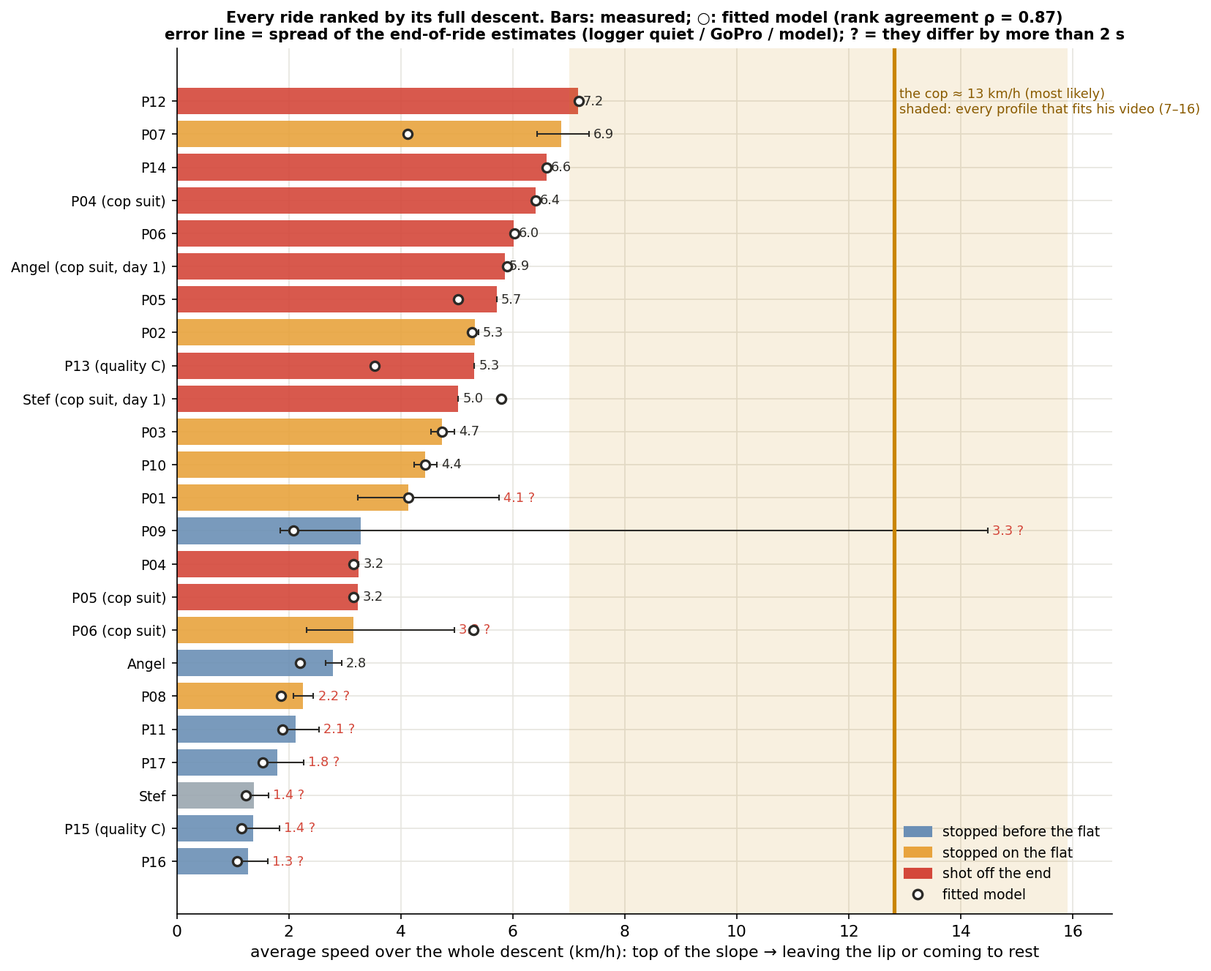
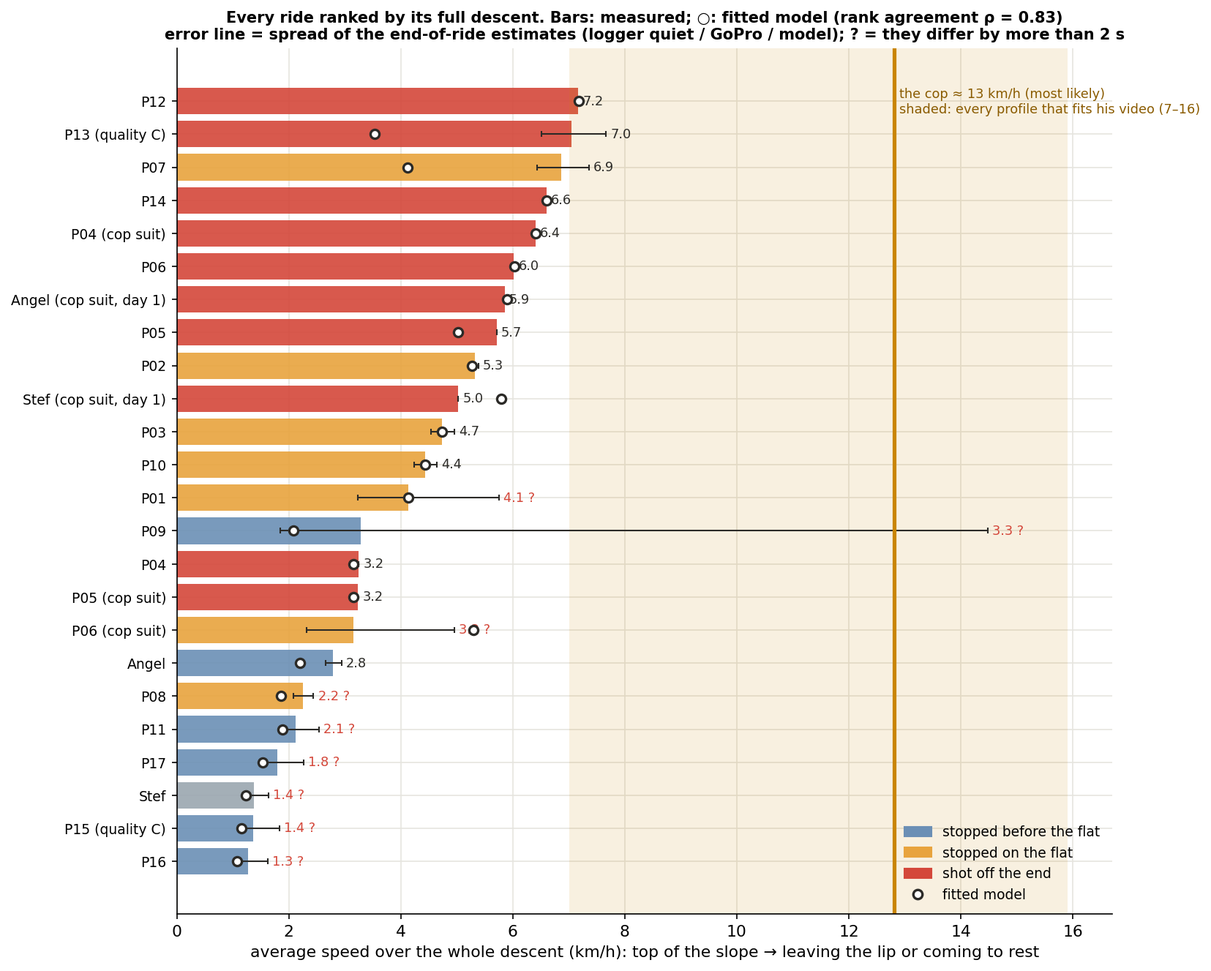
Analysis: rides ranked by overall descent time (P13 timed from the chest-camera picture); Results: findings without thumbnails

Changed region(s): [[0.0616, 0.1236, 0.5239, 0.4017], [0.0616, 0.1854, 0.1541, 0.309]]

diff --git a/results.html b/results.html
@@ -123,26 +123,26 @@
 <main class="res">
   <h2>Main findings</h2>
   <ul class="main">
-    <li><b>The cop was faster than every one of our riders.</b> <span class="sup">20 km/h vs 10–16 km/h on the same filmed stretch (p = 0.004).</span><a class="fr" href="#M1">M1</a><div class="thumbs"><a href="#M1"><img loading="lazy" src="results/s2g_03_cop_same_stretch.png?v=20261019121826" alt="M1"></a></div></li>
-    <li><b>The gap is made in the turns, not on the last straight.</b> <span class="sup">The turn speed decides how a ride ends (p = 0.006). The simulation shows he left the turns at ~13 km/h vs our 6, and that turn friction alone moves the speed out of the tube from 12 to 18 km/h.</span><a class="fr" href="#M2">M2</a><a class="fr" href="#S2">S2</a><a class="fr" href="#L2">L2</a><div class="thumbs"><a href="#M2"><img loading="lazy" src="results/s2g_01_outcome.png?v=20261019121826" alt="M2"></a><a href="#S2"><img loading="lazy" src="results/sim_v2_unmeasurable.png?v=20261019121826" alt="S2"></a><a href="#L2"><img loading="lazy" src="results/sim_l2_turns.png?v=20261019121826" alt="L2"></a></div></li>
-    <li><b>Our riders crawled because they rode on the stall point.</b> <span class="sup">Friction in the turns 0.54–0.62 against a stall at 0.58; the cop's was about 0.15.</span><a class="fr" href="#M3">M3</a><a class="fr" href="#W3">W3</a><div class="thumbs"><a href="#M3"><img loading="lazy" src="results/s2_06_friction_lever.png?v=20261019121826" alt="M3"></a><a href="#W3"><img loading="lazy" src="results/sim_w3_profiles.png?v=20261019121826" alt="W3"></a></div></li>
-    <li><b>To match the cop you must leave the tube at ≥ 18 km/h.</b> <span class="sup">No straight friction or posture fixes a slow exit: posture changes the last straight by < 2 % at equal speed.</span><a class="fr" href="#M4">M4</a><a class="fr" href="#L1">L1</a><a class="fr" href="#L4">L4</a><div class="thumbs"><a href="#M4"><img loading="lazy" src="results/ls_02_what_it_takes.png?v=20261019121826" alt="M4"></a><a href="#L1"><img loading="lazy" src="results/sim_l1_speed.png?v=20261019121826" alt="L1"></a><a href="#L4"><img loading="lazy" src="results/sim_l4_posture.png?v=20261019121826" alt="L4"></a></div></li>
-    <li><b>Lying flat goes with fast rides, but posture alone does not explain the cop.</b> <span class="sup">Measured: lying flat 4.2 vs 2.7 km/h (p = 0.001). Simulated: posture changes the whole-slide time by ±15 % with our friction, ~1 % with his.</span><a class="fr" href="#M5">M5</a><a class="fr" href="#W2">W2</a><div class="thumbs"><a href="#M5"><img loading="lazy" src="results/s2g_05_posture_takeoff.png?v=20261019121826" alt="M5"></a><a href="#W2"><img loading="lazy" src="results/sim_w2_posture.png?v=20261019121826" alt="W2"></a></div></li>
-    <li><b>Pushing harder helps, but not enough.</b> <span class="sup">Measured ρ = 0.46 (p = 0.05); simulated 16 km/h push still slower than the cop.</span><a class="fr" href="#M5">M5</a><a class="fr" href="#W1">W1</a><div class="thumbs"><a href="#M5"><img loading="lazy" src="results/s2g_05_posture_takeoff.png?v=20261019121826" alt="M5"></a><a href="#W1"><img loading="lazy" src="results/sim_w1_push.png?v=20261019121826" alt="W1"></a></div></li>
-    <li><b>Not the suit, not body size.</b> <span class="sup">No clear group differences; the cop suit made nobody faster.</span><a class="fr" href="#M6">M6</a><a class="fr" href="#M7">M7</a><div class="thumbs"><a href="#M6"><img loading="lazy" src="results/s2g_02_groups.png?v=20261019121826" alt="M6"></a><a href="#M7"><img loading="lazy" src="results/s2_02_suit_pairs.png?v=20261019121826" alt="M7"></a></div></li>
-    <li><b>The cop's swing and twist come from speed and a relaxed body.</b> <span class="sup">The simulation reproduces his 82° roll at the tube mouth with no special technique; tone changes the twist, not the time.</span><a class="fr" href="#S2">S2</a><a class="fr" href="#L3">L3</a><div class="thumbs"><a href="#S2"><img loading="lazy" src="results/sim_v2_unmeasurable.png?v=20261019121826" alt="S2"></a><a href="#L3"><img loading="lazy" src="results/sim_l3_tone.png?v=20261019121826" alt="L3"></a></div></li>
-    <li><b>The numbers hold up.</b> <span class="sup">Two sensors agree within 7 %; the simulation matches video it was not fitted to (within 0.1 s at 10.5 m); riders' own ratings rank them correctly.</span><a class="fr" href="#M8">M8</a><a class="fr" href="#S1">S1</a><a class="fr" href="#M9">M9</a><div class="thumbs"><a href="#M8"><img loading="lazy" src="results/s2_05_two_sensors_agree.png?v=20261019121826" alt="M8"></a><a href="#S1"><img loading="lazy" src="results/sim_v1_check.png?v=20261019121826" alt="S1"></a><a href="#M9"><img loading="lazy" src="results/s2g_04_felt_vs_real.png?v=20261019121826" alt="M9"></a></div></li>
+    <li><b>The cop was faster than every one of our riders.</b> <span class="sup">20 km/h vs 10–16 km/h on the same filmed stretch (p = 0.004).</span><a class="fr" href="#M1">M1</a></li>
+    <li><b>The gap is made in the turns, not on the last straight.</b> <span class="sup">The turn speed decides how a ride ends (p = 0.006). The simulation shows he left the turns at ~13 km/h vs our 6, and that turn friction alone moves the speed out of the tube from 12 to 18 km/h.</span><a class="fr" href="#M2">M2</a><a class="fr" href="#S2">S2</a><a class="fr" href="#L2">L2</a></li>
+    <li><b>Our riders crawled because they rode on the stall point.</b> <span class="sup">Friction in the turns 0.54–0.62 against a stall at 0.58; the cop's was about 0.15.</span><a class="fr" href="#M3">M3</a><a class="fr" href="#W3">W3</a></li>
+    <li><b>To match the cop you must leave the tube at ≥ 18 km/h.</b> <span class="sup">No straight friction or posture fixes a slow exit: posture changes the last straight by < 2 % at equal speed.</span><a class="fr" href="#M4">M4</a><a class="fr" href="#L1">L1</a><a class="fr" href="#L4">L4</a></li>
+    <li><b>Lying flat goes with fast rides, but posture alone does not explain the cop.</b> <span class="sup">Measured: lying flat 4.2 vs 2.7 km/h (p = 0.001). Simulated: posture changes the whole-slide time by ±15 % with our friction, ~1 % with his.</span><a class="fr" href="#M5">M5</a><a class="fr" href="#W2">W2</a></li>
+    <li><b>Pushing harder helps, but not enough.</b> <span class="sup">Measured ρ = 0.46 (p = 0.05); simulated 16 km/h push still slower than the cop.</span><a class="fr" href="#M5">M5</a><a class="fr" href="#W1">W1</a></li>
+    <li><b>Not the suit, not body size.</b> <span class="sup">No clear group differences; the cop suit made nobody faster.</span><a class="fr" href="#M6">M6</a><a class="fr" href="#M7">M7</a></li>
+    <li><b>The cop's swing and twist come from speed and a relaxed body.</b> <span class="sup">The simulation reproduces his 82° roll at the tube mouth with no special technique; tone changes the twist, not the time.</span><a class="fr" href="#S2">S2</a><a class="fr" href="#L3">L3</a></li>
+    <li><b>The numbers hold up.</b> <span class="sup">Two sensors agree within 7 %; the simulation matches video it was not fitted to (within 0.1 s at 10.5 m); riders' own ratings rank them correctly.</span><a class="fr" href="#M8">M8</a><a class="fr" href="#S1">S1</a><a class="fr" href="#M9">M9</a></li>
   </ul>
   <p class="notes">Limits: one run per rider per outfit; the cop's numbers rest on two hand-read times from a 15-fps clip;
     posture was seen after the turns. M = measured, S/W/L = simulated (full-body physics, calibrated to the measurements).</p>
   <h2>Measured</h2>
-  <div class="card fig" id="M1"><a href="results/s2g_03_cop_same_stretch.png?v=20261019121826" target="_blank" rel="noopener"><img loading="lazy" src="results/s2g_03_cop_same_stretch.png?v=20261019121826" alt="On the only stretch filmed for both, every rider was slower than the cop"></a><div><span class="fid">M1</span><h3>On the only stretch filmed for both, every rider was slower than the cop</h3><p>Tube mouth → end lip (3.95 m): our fastest riders averaged 10–16 km/h, the cop 20 km/h (all 9 slower, p = 0.004).</p><p class="notes">Times read frame by frame on physical slide features (±0.035–0.07 s).</p></div></div>
-  <div class="card fig" id="M2"><a href="results/s2g_01_outcome.png?v=20261019121826" target="_blank" rel="noopener"><img loading="lazy" src="results/s2g_01_outcome.png?v=20261019121826" alt="How fast you take the turns decides how the ride ends"></a><div><span class="fid">M2</span><h3>How fast you take the turns decides how the ride ends</h3><p>Stopped before the flat: 2.0 ± 0.5 km/h in the turns; stopped on the flat: 3.3 ± 0.7; shot off the end: 4.2 ± 0.7 (p = 0.006). The ones who shot off were also slipperier on the lower straight (friction 0.27 vs 0.48 and 0.59, p < 0.001).</p><p class="notes">Dots = runs, black = mean ± SD. Ending seen on the landing camera.</p></div></div>
-  <div class="card fig" id="M3"><a href="results/s2_06_friction_lever.png?v=20261019121826" target="_blank" rel="noopener"><img loading="lazy" src="results/s2_06_friction_lever.png?v=20261019121826" alt="Everyone rode on the stall point"></a><div><span class="fid">M3</span><h3>Everyone rode on the stall point</h3><p>On a 30° slope, friction 0.58 cancels gravity. Our riders had 0.54–0.62 in the turns, where a small change in friction is a big change in speed.</p><p class="notes">Curves = slide model for two push-off speeds; shaded = our riders.</p></div></div>
-  <div class="card fig" id="M4"><a href="results/ls_02_what_it_takes.png?v=20261019121826" target="_blank" rel="noopener"><img loading="lazy" src="results/ls_02_what_it_takes.png?v=20261019121826" alt="Matching the cop needs speed out of the tube"></a><div><span class="fid">M4</span><h3>Matching the cop needs speed out of the tube</h3><p>Every point on the gold line reproduces the cop's 0.70 s. Our riders all sit to its left: even the slipperiest came out of the tube 3–4 km/h too slowly. The "wannabe cop" (rain suit) is close to the cop.</p><p class="notes">Blue = our 9 riders who shot off, ±1σ (point model fitted to logger + video).</p></div></div>
-  <div class="card fig" id="M5"><a href="results/s2g_05_posture_takeoff.png?v=20261019121826" target="_blank" rel="noopener"><img loading="lazy" src="results/s2g_05_posture_takeoff.png?v=20261019121826" alt="Lying flat went with faster turns; push-off helped a little"></a><div><span class="fid">M5</span><h3>Lying flat went with faster turns; push-off helped a little</h3><p>Lying flat: 4.2 km/h in the turns vs 2.7 sitting up (p = 0.001); 6 of 8 shot off vs 1 of 11 (p = 0.006). Push-off: ρ = 0.46, p = 0.05.</p><p class="notes">Posture coded on the straight, after the turns: slow riders may also sit up because they are slow.</p></div></div>
-  <div class="card fig" id="M6"><a href="results/s2g_02_groups.png?v=20261019121826" target="_blank" rel="noopener"><img loading="lazy" src="results/s2g_02_groups.png?v=20261019121826" alt="Clothes and body size: no clear difference"></a><div><span class="fid">M6</span><h3>Clothes and body size: no clear difference</h3><p>Sex, age, weight, height, estimated contact area and pressure: p = 0.19–0.82. Jeans slower (p = 0.02), only suggestive with 8 comparisons.</p><p class="notes">Bars = mean ± SD, normal-clothes runs only. Group averages only.</p></div></div>
-  <div class="card fig" id="M7"><a href="results/s2_02_suit_pairs.png?v=20261019121826" target="_blank" rel="noopener"><img loading="lazy" src="results/s2_02_suit_pairs.png?v=20261019121826" alt="The cop suit did not make us faster"></a><div><span class="fid">M7</span><h3>The cop suit did not make us faster</h3><p>Of three riders who rode in both, P04 was faster in the suit, P05 slower, P06 the same.</p><p class="notes">One run each; the suit was always the second run.</p></div></div>
+  <div class="card fig" id="M1"><a href="results/s2g_03_cop_same_stretch.png?v=20261019123511" target="_blank" rel="noopener"><img loading="lazy" src="results/s2g_03_cop_same_stretch.png?v=20261019123511" alt="On the only stretch filmed for both, every rider was slower than the cop"></a><div><span class="fid">M1</span><h3>On the only stretch filmed for both, every rider was slower than the cop</h3><p>Tube mouth → end lip (3.95 m): our fastest riders averaged 10–16 km/h, the cop 20 km/h (all 9 slower, p = 0.004).</p><p class="notes">Times read frame by frame on physical slide features (±0.035–0.07 s).</p></div></div>
+  <div class="card fig" id="M2"><a href="results/s2g_01_outcome.png?v=20261019123511" target="_blank" rel="noopener"><img loading="lazy" src="results/s2g_01_outcome.png?v=20261019123511" alt="How fast you take the turns decides how the ride ends"></a><div><span class="fid">M2</span><h3>How fast you take the turns decides how the ride ends</h3><p>Stopped before the flat: 2.0 ± 0.5 km/h in the turns; stopped on the flat: 3.3 ± 0.7; shot off the end: 4.2 ± 0.7 (p = 0.006). The ones who shot off were also slipperier on the lower straight (friction 0.27 vs 0.48 and 0.59, p < 0.001).</p><p class="notes">Dots = runs, black = mean ± SD. Ending seen on the landing camera.</p></div></div>
+  <div class="card fig" id="M3"><a href="results/s2_06_friction_lever.png?v=20261019123511" target="_blank" rel="noopener"><img loading="lazy" src="results/s2_06_friction_lever.png?v=20261019123511" alt="Everyone rode on the stall point"></a><div><span class="fid">M3</span><h3>Everyone rode on the stall point</h3><p>On a 30° slope, friction 0.58 cancels gravity. Our riders had 0.54–0.62 in the turns, where a small change in friction is a big change in speed.</p><p class="notes">Curves = slide model for two push-off speeds; shaded = our riders.</p></div></div>
+  <div class="card fig" id="M4"><a href="results/ls_02_what_it_takes.png?v=20261019123511" target="_blank" rel="noopener"><img loading="lazy" src="results/ls_02_what_it_takes.png?v=20261019123511" alt="Matching the cop needs speed out of the tube"></a><div><span class="fid">M4</span><h3>Matching the cop needs speed out of the tube</h3><p>Every point on the gold line reproduces the cop's 0.70 s. Our riders all sit to its left: even the slipperiest came out of the tube 3–4 km/h too slowly. The "wannabe cop" (rain suit) is close to the cop.</p><p class="notes">Blue = our 9 riders who shot off, ±1σ (point model fitted to logger + video).</p></div></div>
+  <div class="card fig" id="M5"><a href="results/s2g_05_posture_takeoff.png?v=20261019123511" target="_blank" rel="noopener"><img loading="lazy" src="results/s2g_05_posture_takeoff.png?v=20261019123511" alt="Lying flat went with faster turns; push-off helped a little"></a><div><span class="fid">M5</span><h3>Lying flat went with faster turns; push-off helped a little</h3><p>Lying flat: 4.2 km/h in the turns vs 2.7 sitting up (p = 0.001); 6 of 8 shot off vs 1 of 11 (p = 0.006). Push-off: ρ = 0.46, p = 0.05.</p><p class="notes">Posture coded on the straight, after the turns: slow riders may also sit up because they are slow.</p></div></div>
+  <div class="card fig" id="M6"><a href="results/s2g_02_groups.png?v=20261019123511" target="_blank" rel="noopener"><img loading="lazy" src="results/s2g_02_groups.png?v=20261019123511" alt="Clothes and body size: no clear difference"></a><div><span class="fid">M6</span><h3>Clothes and body size: no clear difference</h3><p>Sex, age, weight, height, estimated contact area and pressure: p = 0.19–0.82. Jeans slower (p = 0.02), only suggestive with 8 comparisons.</p><p class="notes">Bars = mean ± SD, normal-clothes runs only. Group averages only.</p></div></div>
+  <div class="card fig" id="M7"><a href="results/s2_02_suit_pairs.png?v=20261019123511" target="_blank" rel="noopener"><img loading="lazy" src="results/s2_02_suit_pairs.png?v=20261019123511" alt="The cop suit did not make us faster"></a><div><span class="fid">M7</span><h3>The cop suit did not make us faster</h3><p>Of three riders who rode in both, P04 was faster in the suit, P05 slower, P06 the same.</p><p class="notes">One run each; the suit was always the second run.</p></div></div>
 
   <h2>What the simulation adds</h2>
   <p class="notes">The cop was only filmed for his last 4 m, and in our data speed, posture and friction move together. The
@@ -155,23 +155,23 @@
 <tr><td class="l">A harder push wouldn't have been enough</td><td class="l">Only pushes of 0–7.5 km/h observed</td><td class="l">Up to 16 km/h simulated: still slower than the cop (W1)</td></tr>
 <tr><td class="l">His twist is passive</td><td class="l">Seen on video, cause unknown</td><td class="l">Emerges from speed + relaxed body (S2, L3)</td></tr>
 </tbody></table></div>
-  <div class="card fig" id="S1"><a href="results/sim_v1_check.png?v=20261019121826" target="_blank" rel="noopener"><img loading="lazy" src="results/sim_v1_check.png?v=20261019121826" alt="Validation: the simulation reproduces video it was not fitted to"></a><div><span class="fid">S1</span><h3>Validation: the simulation reproduces video it was not fitted to</h3><p>Friction on the straight was fitted only to the 11.05 → 12.4 m time. The earlier video gates are an independent test: at 10.5 m the sim is within 0.03–0.11 s. From 9.5 m it covers the stretch about 0.3 s quicker than the real rider, so it slightly <b>over</b>estimates our riders' speed out of the tube. The real gap to the cop is, if anything, larger.</p><p class="notes">Full-body physics (Rapier), turn friction fitted to each rider's logger turn time, synchronised at 11.05 m. Both riders must leave the lip, as on the video; Stef then fits the window less well (0.26 s RMS vs 0.015 s for Angel).</p></div></div>
-  <div class="card fig" id="S2"><a href="results/sim_v2_unmeasurable.png?v=20261019121826" target="_blank" rel="noopener"><img loading="lazy" src="results/sim_v2_unmeasurable.png?v=20261019121826" alt="What nobody filmed: the cop's turns"></a><div><span class="fid">S2</span><h3>What nobody filmed: the cop's turns</h3><p>His clip starts at the tube mouth. Calibrated to his 0.70 s, the simulation says he left the turns at about 13 km/h (ours 6) and came out of the tube at 18 (ours 10–12). Relaxed, at that speed, his body rolls 82° at the mouth, as on his video; our riders roll under 10°.</p><p class="notes">Cop: one friction for the whole slide (0.15) with a limp body; riders: 0.41 in the turns.</p></div></div>
+  <div class="card fig" id="S1"><a href="results/sim_v1_check.png?v=20261019123511" target="_blank" rel="noopener"><img loading="lazy" src="results/sim_v1_check.png?v=20261019123511" alt="Validation: the simulation reproduces video it was not fitted to"></a><div><span class="fid">S1</span><h3>Validation: the simulation reproduces video it was not fitted to</h3><p>Friction on the straight was fitted only to the 11.05 → 12.4 m time. The earlier video gates are an independent test: at 10.5 m the sim is within 0.03–0.11 s. From 9.5 m it covers the stretch about 0.3 s quicker than the real rider, so it slightly <b>over</b>estimates our riders' speed out of the tube. The real gap to the cop is, if anything, larger.</p><p class="notes">Full-body physics (Rapier), turn friction fitted to each rider's logger turn time, synchronised at 11.05 m. Both riders must leave the lip, as on the video; Stef then fits the window less well (0.26 s RMS vs 0.015 s for Angel).</p></div></div>
+  <div class="card fig" id="S2"><a href="results/sim_v2_unmeasurable.png?v=20261019123511" target="_blank" rel="noopener"><img loading="lazy" src="results/sim_v2_unmeasurable.png?v=20261019123511" alt="What nobody filmed: the cop's turns"></a><div><span class="fid">S2</span><h3>What nobody filmed: the cop's turns</h3><p>His clip starts at the tube mouth. Calibrated to his 0.70 s, the simulation says he left the turns at about 13 km/h (ours 6) and came out of the tube at 18 (ours 10–12). Relaxed, at that speed, his body rolls 82° at the mouth, as on his video; our riders roll under 10°.</p><p class="notes">Cop: one friction for the whole slide (0.15) with a limp body; riders: 0.41 in the turns.</p></div></div>
 
   <h2>Effect of each simulated parameter</h2>
   <p class="notes">One parameter changed at a time, the rest at our riders' values. Try them on the
     <a href="./">Whole-slide</a> and <a href="launch/">Landing</a> simulations.</p>
-  <div class="card fig" id="W1"><a href="results/sim_w1_push.png?v=20261019121826" target="_blank" rel="noopener"><img loading="lazy" src="results/sim_w1_push.png?v=20261019121826" alt="Push-off speed"></a><div><span class="fid">W1</span><h3>Push-off speed</h3><p>Expected: a harder push helps (2 → 16 km/h: 5.9 → 3.2 s for normal clothes), but even 16 km/h with our friction is slower than the cop with a gentle push (2.2–2.9 s).</p><p class="notes">Whole slide, full-body physics.</p></div></div>
-  <div class="card fig" id="W2"><a href="results/sim_w2_posture.png?v=20261019121826" target="_blank" rel="noopener"><img loading="lazy" src="results/sim_w2_posture.png?v=20261019121826" alt="Starting position"></a><div><span class="fid">W2</span><h3>Starting position</h3><p>Expected: ±15 % on the time with our friction (sitting up 4.2 s, cop position 5.7 s); about 2.65 s for every position with the cop's friction. Position mostly changes the twist.</p><p class="notes">Whole slide.</p></div></div>
-  <div class="card fig" id="W3"><a href="results/sim_w3_profiles.png?v=20261019121826" target="_blank" rel="noopener"><img loading="lazy" src="results/sim_w3_profiles.png?v=20261019121826" alt="Clothes (= fitted friction)"></a><div><span class="fid">W3</span><h3>Clothes (= fitted friction)</h3><p>Expected: the curves split in the turns (ours drop to about 5 km/h, the cop keeps 13–15) and never come back together.</p><p class="notes">Whole slide, same push for all.</p></div></div>
-  <div class="card fig" id="L1"><a href="results/sim_l1_speed.png?v=20261019121826" target="_blank" rel="noopener"><img loading="lazy" src="results/sim_l1_speed.png?v=20261019121826" alt="Speed out of the tube"></a><div><span class="fid">L1</span><h3>Speed out of the tube</h3><p>Expected: the last straight depends mostly on entry speed; ~18 km/h or more is needed for 0.70 s.</p><p class="notes">Last straight only.</p></div></div>
-  <div class="card fig" id="L2"><a href="results/sim_l2_turns.png?v=20261019121826" target="_blank" rel="noopener"><img loading="lazy" src="results/sim_l2_turns.png?v=20261019121826" alt="Friction in the turns"></a><div><span class="fid">L2</span><h3>Friction in the turns</h3><p>Expected: 0.41 → 0.15 raises the speed out of the tube from 12.5 to 18 km/h and cuts the last straight from 0.98 to 0.76 s.</p><p class="notes">Straight friction kept at our riders' 0.21.</p></div></div>
-  <div class="card fig" id="L3"><a href="results/sim_l3_tone.png?v=20261019121826" target="_blank" rel="noopener"><img loading="lazy" src="results/sim_l3_tone.png?v=20261019121826" alt="Muscle tone"></a><div><span class="fid">L3</span><h3>Muscle tone</h3><p>Expected: a limp body twists ~60° at the mouth, a stiffer one 18–44°; the time barely changes (0.68–0.71 s).</p><p class="notes">The cop's run.</p></div></div>
-  <div class="card fig" id="L4"><a href="results/sim_l4_posture.png?v=20261019121826" target="_blank" rel="noopener"><img loading="lazy" src="results/sim_l4_posture.png?v=20261019121826" alt="Body position on the last straight"></a><div><span class="fid">L4</span><h3>Body position on the last straight</h3><p>Expected: at 18 km/h out of the tube all positions take 0.67–0.68 s.</p><p class="notes">Last straight only.</p></div></div>
+  <div class="card fig" id="W1"><a href="results/sim_w1_push.png?v=20261019123511" target="_blank" rel="noopener"><img loading="lazy" src="results/sim_w1_push.png?v=20261019123511" alt="Push-off speed"></a><div><span class="fid">W1</span><h3>Push-off speed</h3><p>Expected: a harder push helps (2 → 16 km/h: 5.9 → 3.2 s for normal clothes), but even 16 km/h with our friction is slower than the cop with a gentle push (2.2–2.9 s).</p><p class="notes">Whole slide, full-body physics.</p></div></div>
+  <div class="card fig" id="W2"><a href="results/sim_w2_posture.png?v=20261019123511" target="_blank" rel="noopener"><img loading="lazy" src="results/sim_w2_posture.png?v=20261019123511" alt="Starting position"></a><div><span class="fid">W2</span><h3>Starting position</h3><p>Expected: ±15 % on the time with our friction (sitting up 4.2 s, cop position 5.7 s); about 2.65 s for every position with the cop's friction. Position mostly changes the twist.</p><p class="notes">Whole slide.</p></div></div>
+  <div class="card fig" id="W3"><a href="results/sim_w3_profiles.png?v=20261019123511" target="_blank" rel="noopener"><img loading="lazy" src="results/sim_w3_profiles.png?v=20261019123511" alt="Clothes (= fitted friction)"></a><div><span class="fid">W3</span><h3>Clothes (= fitted friction)</h3><p>Expected: the curves split in the turns (ours drop to about 5 km/h, the cop keeps 13–15) and never come back together.</p><p class="notes">Whole slide, same push for all.</p></div></div>
+  <div class="card fig" id="L1"><a href="results/sim_l1_speed.png?v=20261019123511" target="_blank" rel="noopener"><img loading="lazy" src="results/sim_l1_speed.png?v=20261019123511" alt="Speed out of the tube"></a><div><span class="fid">L1</span><h3>Speed out of the tube</h3><p>Expected: the last straight depends mostly on entry speed; ~18 km/h or more is needed for 0.70 s.</p><p class="notes">Last straight only.</p></div></div>
+  <div class="card fig" id="L2"><a href="results/sim_l2_turns.png?v=20261019123511" target="_blank" rel="noopener"><img loading="lazy" src="results/sim_l2_turns.png?v=20261019123511" alt="Friction in the turns"></a><div><span class="fid">L2</span><h3>Friction in the turns</h3><p>Expected: 0.41 → 0.15 raises the speed out of the tube from 12.5 to 18 km/h and cuts the last straight from 0.98 to 0.76 s.</p><p class="notes">Straight friction kept at our riders' 0.21.</p></div></div>
+  <div class="card fig" id="L3"><a href="results/sim_l3_tone.png?v=20261019123511" target="_blank" rel="noopener"><img loading="lazy" src="results/sim_l3_tone.png?v=20261019123511" alt="Muscle tone"></a><div><span class="fid">L3</span><h3>Muscle tone</h3><p>Expected: a limp body twists ~60° at the mouth, a stiffer one 18–44°; the time barely changes (0.68–0.71 s).</p><p class="notes">The cop's run.</p></div></div>
+  <div class="card fig" id="L4"><a href="results/sim_l4_posture.png?v=20261019123511" target="_blank" rel="noopener"><img loading="lazy" src="results/sim_l4_posture.png?v=20261019123511" alt="Body position on the last straight"></a><div><span class="fid">L4</span><h3>Body position on the last straight</h3><p>Expected: at 18 km/h out of the tube all positions take 0.67–0.68 s.</p><p class="notes">Last straight only.</p></div></div>
 
   <h2>How much to trust the numbers</h2>
-  <div class="card fig" id="M8"><a href="results/s2_05_two_sensors_agree.png?v=20261019121826" target="_blank" rel="noopener"><img loading="lazy" src="results/s2_05_two_sensors_agree.png?v=20261019121826" alt="Two independent sensors give the same turn speeds"></a><div><span class="fid">M8</span><h3>Two independent sensors give the same turn speeds</h3><p>Waist logger vs chest GoPro gyro: within 7 % (median). Rider-to-rider differences (±50 %) are real.</p><p class="notes">On the line = perfect agreement; shaded = ±10 %.</p></div></div>
-  <div class="card fig" id="M9"><a href="results/s2g_04_felt_vs_real.png?v=20261019121826" target="_blank" rel="noopener"><img loading="lazy" src="results/s2g_04_felt_vs_real.png?v=20261019121826" alt="Riders knew how fast they were"></a><div><span class="fid">M9</span><h3>Riders knew how fast they were</h3><p>Their own rating matched the measured speed within a few points (p = 0.15) and ranked everyone right (ρ = 0.78, p < 0.001).</p><p class="notes">Left: only the 8 riders filmed on the same stretch as the cop.</p></div></div>
+  <div class="card fig" id="M8"><a href="results/s2_05_two_sensors_agree.png?v=20261019123511" target="_blank" rel="noopener"><img loading="lazy" src="results/s2_05_two_sensors_agree.png?v=20261019123511" alt="Two independent sensors give the same turn speeds"></a><div><span class="fid">M8</span><h3>Two independent sensors give the same turn speeds</h3><p>Waist logger vs chest GoPro gyro: within 7 % (median). Rider-to-rider differences (±50 %) are real.</p><p class="notes">On the line = perfect agreement; shaded = ±10 %.</p></div></div>
+  <div class="card fig" id="M9"><a href="results/s2g_04_felt_vs_real.png?v=20261019123511" target="_blank" rel="noopener"><img loading="lazy" src="results/s2g_04_felt_vs_real.png?v=20261019123511" alt="Riders knew how fast they were"></a><div><span class="fid">M9</span><h3>Riders knew how fast they were</h3><p>Their own rating matched the measured speed within a few points (p = 0.15) and ranked everyone right (ρ = 0.78, p < 0.001).</p><p class="notes">Left: only the 8 riders filmed on the same stretch as the cop.</p></div></div>
 
   <div class="card"><h3>Reading the statistics</h3><ul class="main" style="font-size:14px">
     <li><b>p-value</b>: how likely a difference this big would be by pure chance if there were really no difference.

diff --git a/data.html b/data.html
@@ -121,21 +121,21 @@
   <p class="lede">Pick a ride to see everything we measured on it: the logger's turn timing, the landing camera and the fits.
     The main findings and group statistics are on <a href="results.html">Results</a>.</p>
   <div class="card">
-    <h3>Every ride: speed through the turns (km/h) — click one</h3>
+    <h3>Every ride ranked by its overall descent time — click one</h3>
     <div class="legend" id="legB"></div>
     <div id="bars"></div>
   </div>
   <div id="runView"></div>
   <h2>All rides at a glance</h2>
   <div class="card"><h3>Every ride ranked by its full descent</h3>
-    <a href="results/an_1_descent_ranking.png?v=20261019121817" target="_blank"><img class="fig" src="results/an_1_descent_ranking.png?v=20261019121817" alt="ranking" loading="lazy"></a>
+    <a href="results/an_1_descent_ranking.png?v=20261019123554" target="_blank"><img class="fig" src="results/an_1_descent_ranking.png?v=20261019123554" alt="ranking" loading="lazy"></a>
     <p class="notes">Average speed from the top of the slope (logger departure) until the rider left the lip or came to rest.
       Leaving the lip: model fitted to the landing video's tube mouth → lip time. Coming to rest: the median of three independent
       estimates (logger goes quiet, GoPro picture goes still, model), with their spread as the error line; "?" = they differ by
       more than 2 s, typically slow riders who crept to a stop. ○ = the model fitted to that ride. The cop's full descent was never
       filmed: his line comes from the speed profiles that reproduce his measured 0.70 s on the last stretch.</p></div>
   <div class="card"><h3>The two best-measured stretches, ranked separately</h3>
-    <a href="results/an_3_two_stretches.png?v=20261019121817" target="_blank"><img class="fig" src="results/an_3_two_stretches.png?v=20261019121817" alt="two stretches" loading="lazy"></a>
+    <a href="results/an_3_two_stretches.png?v=20261019123554" target="_blank"><img class="fig" src="results/an_3_two_stretches.png?v=20261019123554" alt="two stretches" loading="lazy"></a>
     <p class="notes">The full-descent ranking mixes a well-measured part (the turns) with a weak one (when a slow ride really
       ended). Here each stretch is ranked on its own, over the same distance for everyone. Left: the time through the turns,
       from the gyro, with both ends measured (no launch time needed: it can't be pinned from the logger alone). Right: the landing video's tube mouth → lip time, which only riders who reached the lip
@@ -148,7 +148,7 @@
       about ±0.3–0.5 s. A sync cue that every camera and the logger record (the GO beep next to the landing camera, a clap or a
       flash) would make the whole descent measurable end to end next time.</p></div>
   <div class="card"><h3>Model vs measurement, stretch by stretch</h3>
-    <a href="results/an_2_model_vs_measured.png?v=20261019121817" target="_blank"><img class="fig" src="results/an_2_model_vs_measured.png?v=20261019121817" alt="model vs measured" loading="lazy" style="max-width:640px"></a>
+    <a href="results/an_2_model_vs_measured.png?v=20261019123554" target="_blank"><img class="fig" src="results/an_2_model_vs_measured.png?v=20261019123554" alt="model vs measured" loading="lazy" style="max-width:640px"></a>
     <p class="notes">Each dot is one ride on one stretch: measured average speed (turn timing from the logger, lower straight from
       logger + landing camera, tube mouth → lip from the landing video) against the fitted model on the same stretch. The model
       has three free numbers per ride (push, turn friction, lower friction), so a close match on four stretches is a real check.
@@ -169,7 +169,7 @@ const $ = id => document.getElementById(id);
 const css = v => getComputedStyle(document.documentElement).getPropertyValue(v).trim();
 const fmt = (v, d = 1) => (v == null || Number.isNaN(v)) ? "—" : (+v).toFixed(d);
 const tip = $("tip");
-const V = "20261019121817";
+const V = "20261019123554";
 /* ------------------------------------------------------------------ chart */
 function niceTicks(lo, hi, n = 5) {
   const span = hi - lo || 1, step0 = span / n, mag = Math.pow(10, Math.floor(Math.log10(step0)));
@@ -305,16 +305,17 @@ const tile = (tl, tv, tu, tn) => `<div class="tile"><div class="tl">${tl}</div><
 
 /* picker: every run as a bar (speed through the turns), dot = how it ended */
 function bars() {
-  const rs = R.slice().sort((a, b) => (vt(b) ?? 0) - (vt(a) ?? 0)), vmax = 6.5;
+  // ranked by overall descent time: top of the slope -> leaving the lip / coming to rest (fastest first)
+  const T = r => (ex(r).desc || {}).t, rs = R.filter(r => T(r) > 0).sort((a, b) => T(a) - T(b)), tmax = Math.max(...rs.map(T));
   $("bars").innerHTML = rs.map(r => {
-    const w = (vt(r) ?? 0) * KMH / vmax * 100, c = col(r), L = OUT[outc(r)];
-    const bar = r.quality === "C" ? `border:2px dashed ${c}` : `background:${c};opacity:${r.quality === "B" ? 0.55 : 1}`;
-    return `<div class="frow${SEL && SEL.run_id === r.run_id ? " sel" : ""}" data-id="${r.run_id}" style="cursor:pointer"><span class="fl">${nm(r)}${L ? ` <i class="dotk" style="background:${L[1]}" title="${L[0]}"></i>` : ""}</span>` +
-      `<span class="fb"><i style="width:${w.toFixed(1)}%;${bar}"></i></span><b>${fmt((vt(r) ?? NaN) * KMH)}</b></div>`;
+    const d = ex(r).desc, w = Math.min(T(r), 20) / Math.min(tmax, 20) * 100, L = OUT[outc(r)], c = L ? L[1] : "#9aa6b0", odd = d.spread > 2;
+    const bar = r.quality === "C" || d.src.startsWith("chest") ? `border:2px dashed ${c}` : `background:${c};opacity:${odd ? 0.5 : 1}`;
+    return `<div class="frow${SEL && SEL.run_id === r.run_id ? " sel" : ""}" data-id="${r.run_id}" style="cursor:pointer" title="${d.src}${d.spread ? ` · estimates differ by ${d.spread.toFixed(1)} s` : ""}">` +
+      `<span class="fl">${nm(r)}</span><span class="fb"><i style="width:${w.toFixed(1)}%;${bar}"></i></span><b style="white-space:nowrap">${fmt(T(r))} s${odd ? "?" : ""}${T(r) > 20 ? "→" : ""}</b></div>`;
   }).join("");
   $("bars").querySelectorAll(".frow").forEach(e => e.addEventListener("click", () => { select(+e.dataset.id); $("runView").scrollIntoView({ behavior: "smooth" }); }));
-  legend($("legB"), [{ name: "normal clothes", color: NC }, { name: "cop suit", color: WC }, { name: "faded = quality B, dashed = C", color: "#8a8984" }]
-    .concat(Object.values(OUT).map(([n, c]) => ({ name: n, color: c, dot: 1 }))));
+  legend($("legB"), Object.values(OUT).map(([n, c]) => ({ name: n, color: c })).concat([{ name: "faded / ? = end of ride uncertain (> 2 s)", color: "#8a8984" },
+    { name: "dashed = timed from the chest-camera picture (logger unusable)", color: "#8a8984", dash: true }]));
 }
 
 function rankOf(r, key) {
